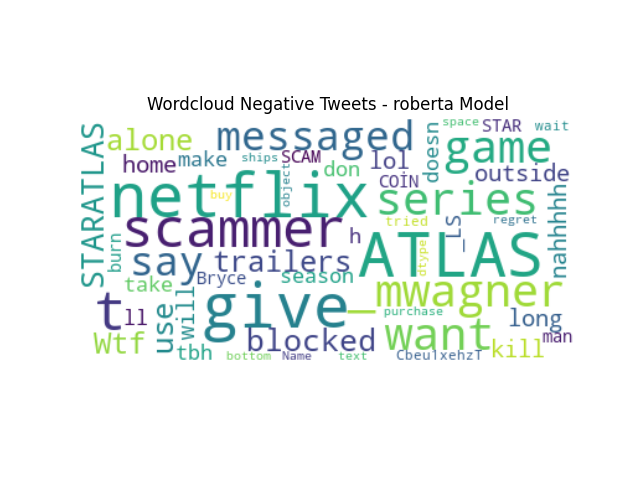
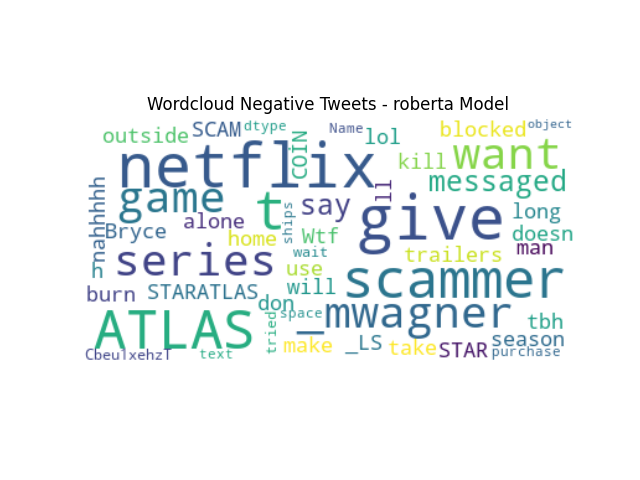
Run query with mentions and hashtags

Changed region(s): [[0.125, 0.25, 0.9062, 0.75]]

diff --git a/src/sentiment_analysis.py b/src/sentiment_analysis.py
@@ -183,9 +183,8 @@ def save_word_cloud(df_tweet: pd.DataFrame, sentiment_model: str, search_term: s
 if __name__ == "__main__":
 
     if len(sys.argv) <= 1:
-        # text_query = 'staratlas OR $ATLAS OR $POLIS OR @staratlas or #staralas'
         save_query = 'staratlas'
-        text_query = '{0} -is:retweet'.format(save_query)
+        text_query = '{0} OR @staratlas OR #staralas OR $ATLAS OR $POLIS OR -is:retweet'.format(save_query)
         limit: int = 500
 
     else:
